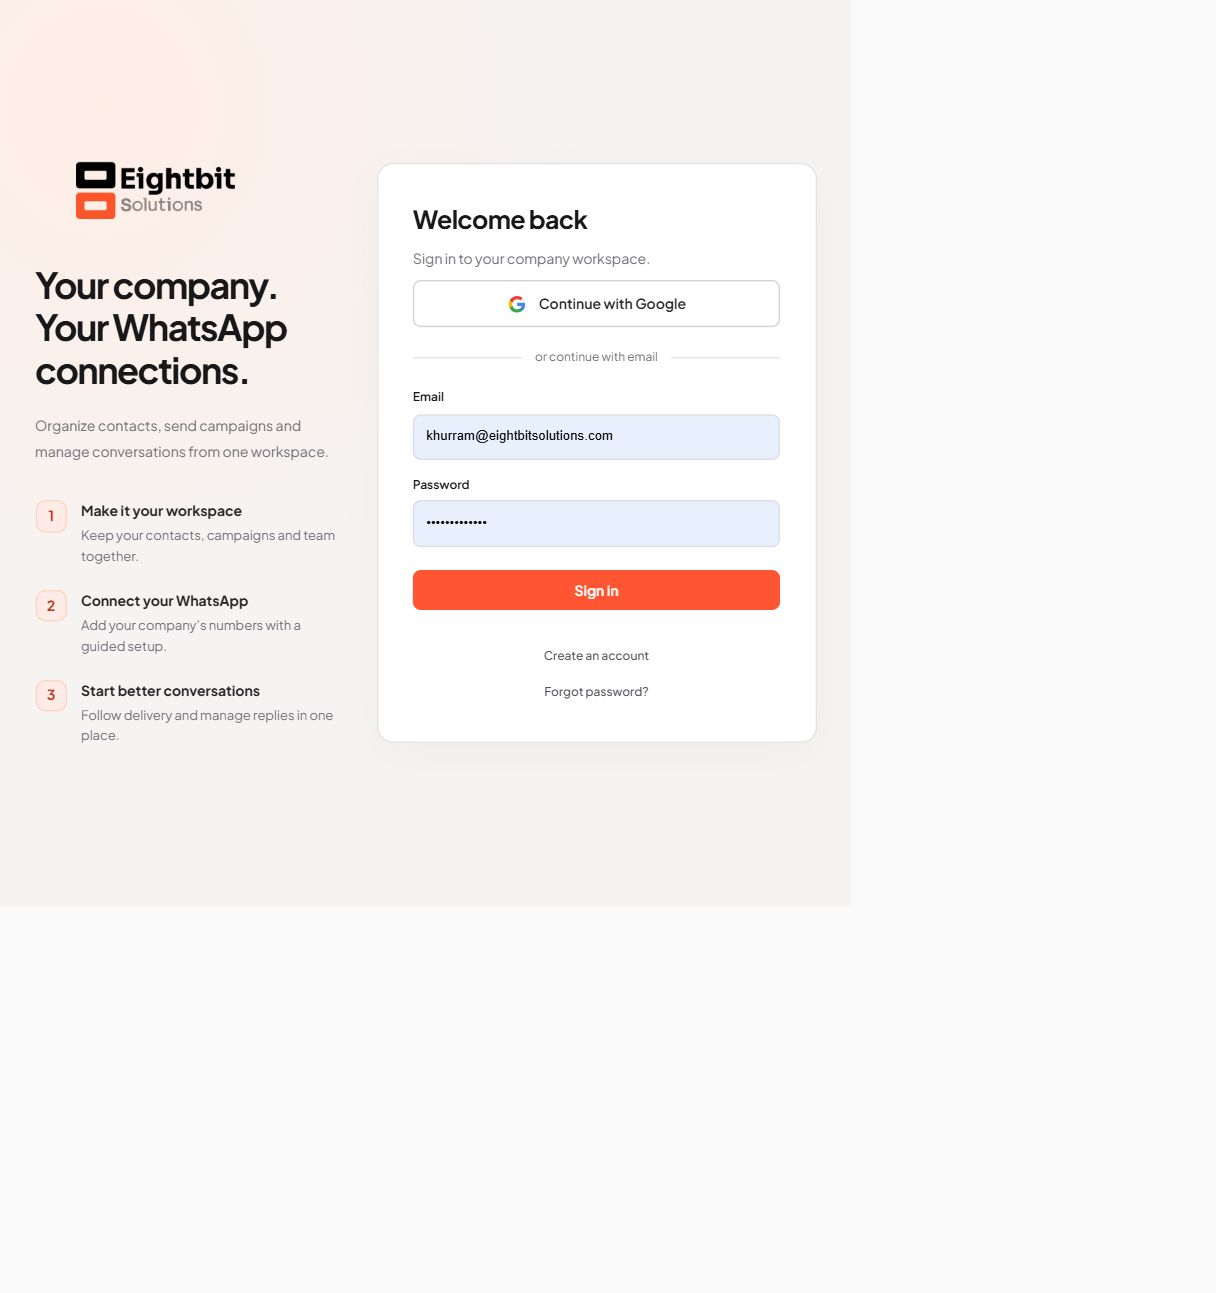
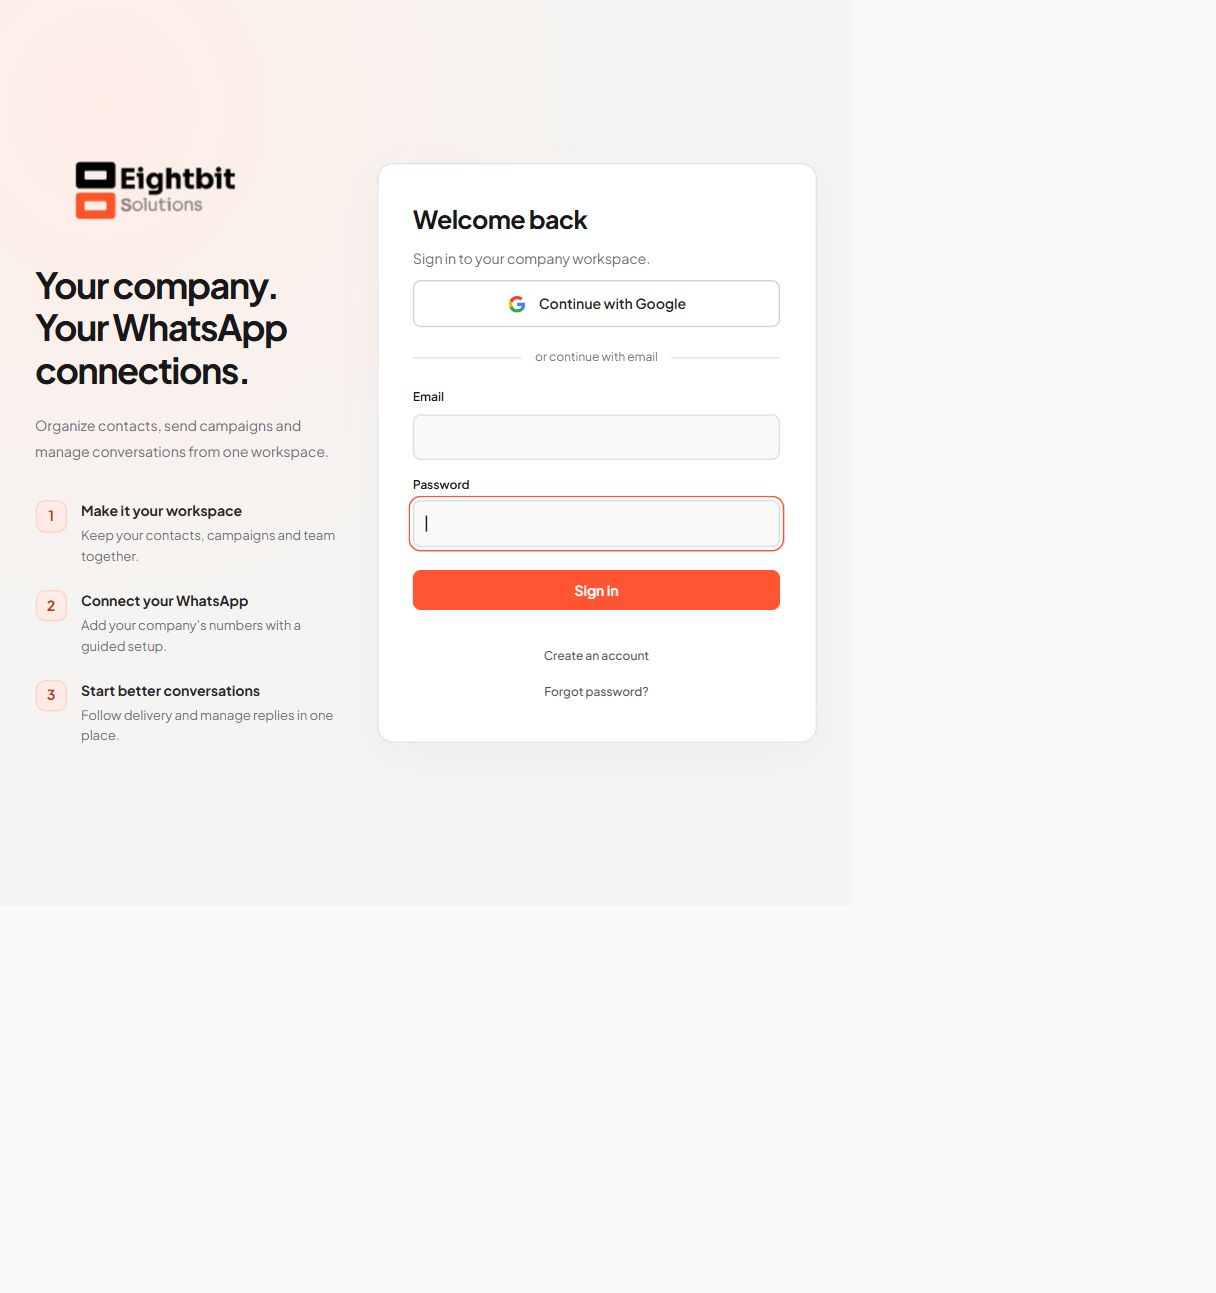
Recover missing authentication sessions at workspace load

diff --git a/src/saas/SaaSApp.tsx b/src/saas/SaaSApp.tsx
@@ -5,6 +5,7 @@ import {
   configured,
   config,
   continueWithGoogle,
+  OutreachError,
   count,
   importContacts,
   label,
@@ -617,7 +618,18 @@ export default function SaaSApp() {
   }, []);
   const loadBootstrap = useCallback(async (preferred?: string) => {
     const identity = authIdentity.current;
-    const b = await action("bootstrap");
+    let b: Row;
+    try {
+      b = await action("bootstrap");
+    } catch (error) {
+      if (error instanceof OutreachError && error.code === "UNAUTHORIZED") {
+        setAuthenticated(false);
+        setBootstrap(null);
+        setData({});
+        setWorkspace("");
+      }
+      throw error;
+    }
     if (identity !== authIdentity.current) return;
     setBootstrap(b);
     const allowed = rows(b.workspaces);

diff --git a/docs/saas-v2/frontend-validation.md b/docs/saas-v2/frontend-validation.md
@@ -50,3 +50,5 @@ Targeted SaaS lint has no errors and four advisory warnings: two effects deliber
 Preserved the original logo artwork and used multiply compositing to remove its visible white rectangle on page backgrounds. Signup/login have a Google button, improved headings, ordered onboarding benefits, email divider, clear link hierarchy, keyboard focus and mobile sizing. Both were reviewed at desktop/390px (and narrow273px without overflow). The Google-disabled fallback was exercised in signup; login/signup switching and provider failure preserve email sign-in.
 
 Production build and legacy lifecycle passed; frontend suite now has six checks including Google readiness, trusted redirect validation and correct return origins. Public Supabase Auth settings currently report Google disabled. No Google OAuth credential or provider setting was created/changed. Real Google login is pending the operator steps in google-sign-in-setup.md. Production frontend remains not uploaded; WhatsApp testing stays deferred. Upload ZIP and manifest updated with this build.
+
+Authentication recovery follow-up: if initial workspace loading reports an unauthorized/absent session, return to sign-in instead of leaving a Retry-only screen. The browser showed the sign-in form after the correction; build and client checks passed again. Real Google consent still awaits provider setup.
